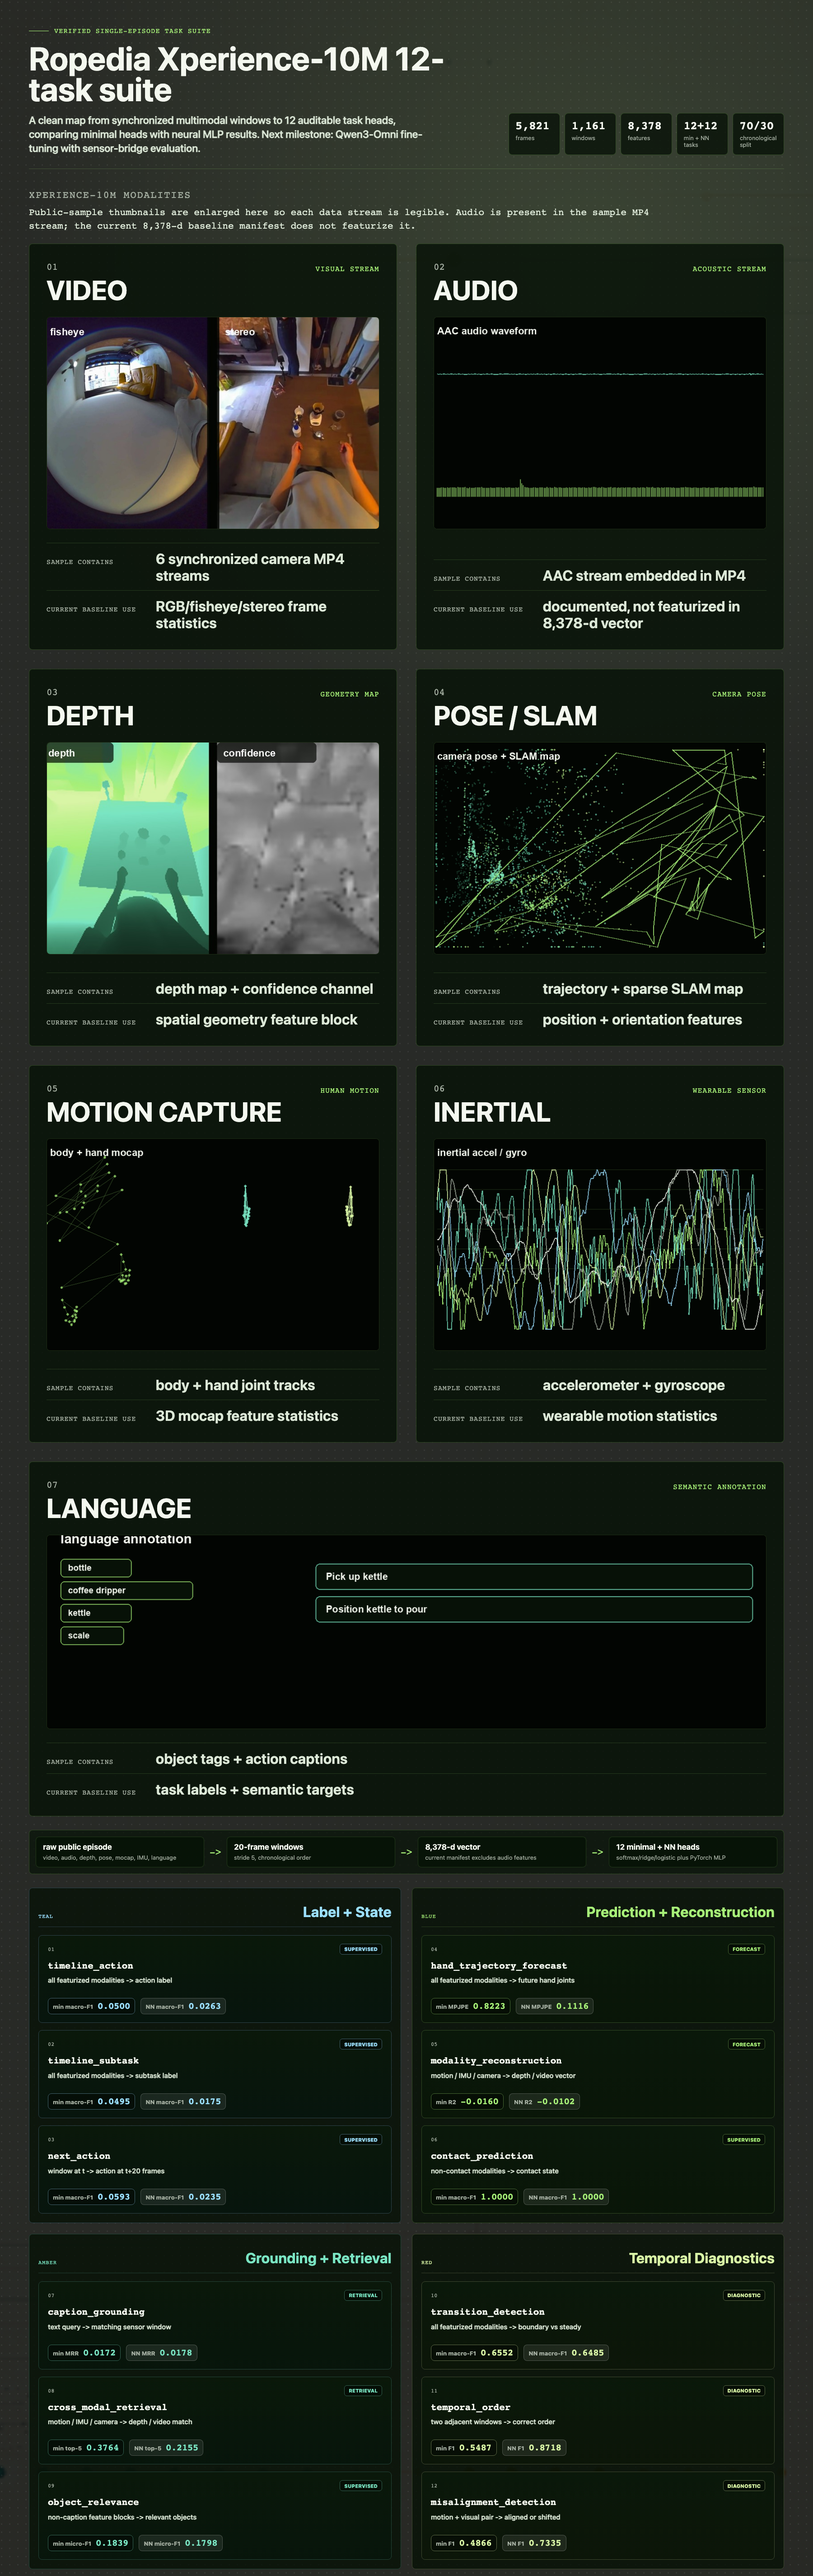
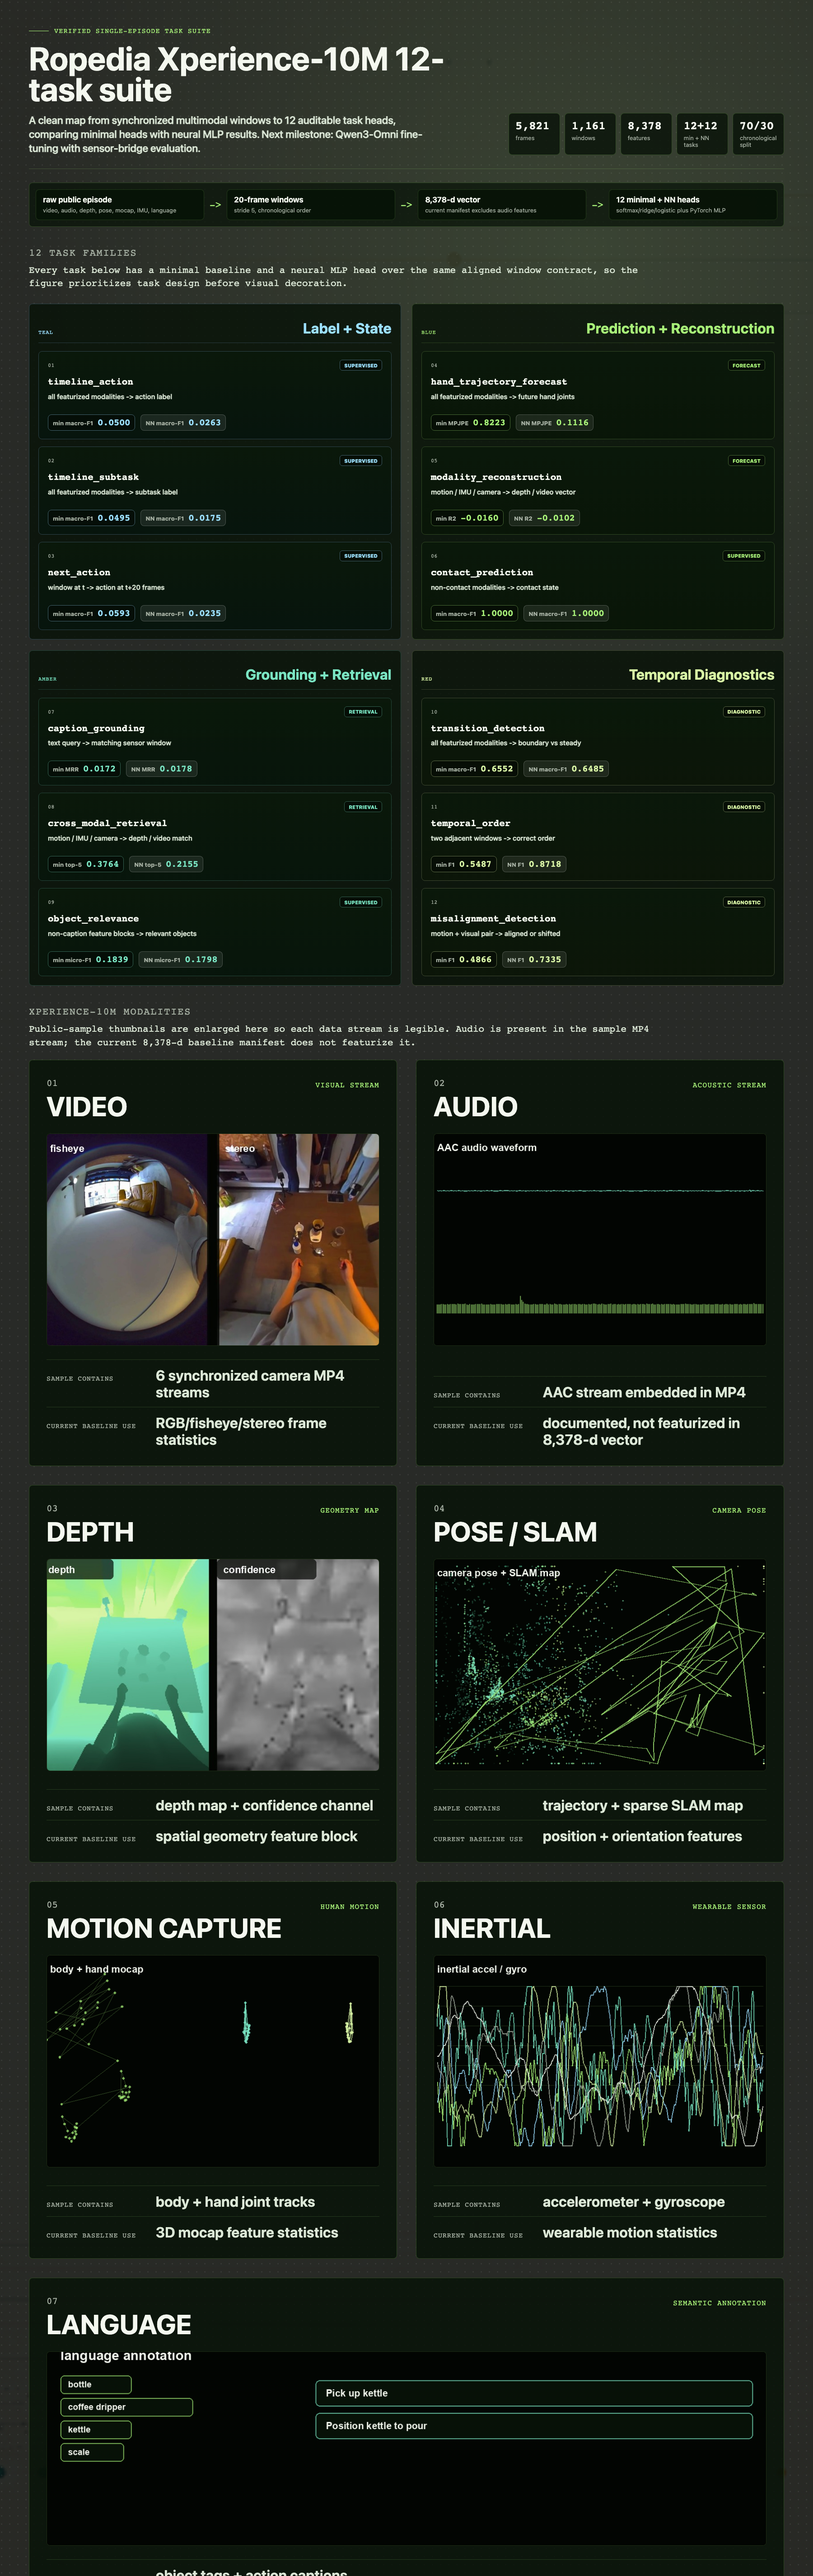
Prioritize task suite figure

diff --git a/docs/index.html b/docs/index.html
@@ -13,11 +13,11 @@
   <meta property="og:description" content="One public embodied-AI episode, converted into reproducible multimodal tasks, minimal baselines, neural MLP baselines, metrics, and diagrams.">
   <meta property="og:type" content="website">
   <meta property="og:url" content="https://chaoyue0307.github.io/ropedia-xperience-10m-task-suite/">
-  <meta property="og:image" content="https://chaoyue0307.github.io/ropedia-xperience-10m-task-suite/assets/task_suite_infographic.png?v=xperience10m-modalities-v9-large-atlas">
+  <meta property="og:image" content="https://chaoyue0307.github.io/ropedia-xperience-10m-task-suite/assets/task_suite_infographic.png?v=xperience10m-taskfirst-v10">
   <meta name="twitter:card" content="summary_large_image">
   <meta name="twitter:title" content="Ropedia Xperience-10M Task Suite">
   <meta name="twitter:description" content="Audit-first Xperience-10M multimodal task suite with minimal and neural baselines.">
-  <meta name="twitter:image" content="https://chaoyue0307.github.io/ropedia-xperience-10m-task-suite/assets/task_suite_infographic.png?v=xperience10m-modalities-v9-large-atlas">
+  <meta name="twitter:image" content="https://chaoyue0307.github.io/ropedia-xperience-10m-task-suite/assets/task_suite_infographic.png?v=xperience10m-taskfirst-v10">
   <script type="application/ld+json">
     {
       "@context": "https://schema.org",
@@ -342,8 +342,10 @@
       margin-top: 30px;
     }
     .figure-pan {
-      overflow: visible;
+      overflow-x: auto;
+      overflow-y: hidden;
       border-radius: var(--radius);
+      padding-bottom: 4px;
     }
     .figure-pan .task-suite-image {
       margin-bottom: 0;
@@ -963,9 +965,9 @@
         padding-inline: 0;
       }
       .figure-pan .task-suite-image {
-        width: 100%;
-        min-width: 0;
-        max-width: 100%;
+        width: 980px;
+        min-width: 980px;
+        max-width: none;
       }
     }
     @media (prefers-reduced-motion: reduce) {
@@ -1186,7 +1188,10 @@
       <div class="wrap">
         <div class="section-head">
           <h2>Ropedia Xperience-10M 12-task suite, first.</h2>
-          <p>Start with the large native modality atlas, then read the full 12-task map below it. Audio is present in the sample MP4 stream, but the current 8,378-d baseline manifest does not featurize it.</p>
+          <p>Start with the full 12-task map, then inspect the large native modality atlas below it. Audio is present in the sample MP4 stream, but the current 8,378-d baseline manifest does not featurize it.</p>
+        </div>
+        <div class="figure-pan" id="task-suite-map">
+          <img class="task-suite-image" src="assets/task_suite_infographic.png?v=xperience10m-taskfirst-v10" alt="ChatGPT-image-backed infographic showing all 12 Ropedia Xperience-10M tasks with enlarged modality cards">
         </div>
         <div class="modality-atlas-panel" id="modality-atlas" aria-labelledby="modality-atlas-title">
           <div class="atlas-head">
@@ -1234,9 +1239,6 @@
             </article>
           </div>
           <p class="atlas-note">The atlas redistributes only small derived thumbnails and metadata. Raw MP4, HDF5, and RRD files remain excluded from this repo and the Hugging Face mirrors.</p>
-        </div>
-        <div class="figure-pan">
-          <img class="task-suite-image" src="assets/task_suite_infographic.png?v=xperience10m-modalities-v9-large-atlas" alt="ChatGPT-image-backed infographic showing all 12 Ropedia Xperience-10M tasks with enlarged modality cards">
         </div>
       </div>
     </section>

diff --git a/scripts/validate_website_integrity.py b/scripts/validate_website_integrity.py
@@ -222,12 +222,49 @@ def validate(docs_root: Path, site_base: str) -> dict:
     ]
     duplicate_id_records = [item for item in duplicate_id_records if item["duplicates"]]
 
+    semantic_checks = []
+    semantic_layout_failures = []
+    index_path = docs_root / "index.html"
+    index_text = index_path.read_text(encoding="utf-8", errors="ignore") if index_path.exists() else ""
+    suite_start = index_text.find('<section id="suite">')
+    suite_end = index_text.find('<section id="pipeline">')
+    suite_text = index_text[suite_start:suite_end] if suite_start >= 0 and suite_end > suite_start else ""
+    semantic_rules = [
+        (
+            "suite_task_map_precedes_modality_atlas",
+            '<div class="figure-pan" id="task-suite-map">',
+            '<div class="modality-atlas-panel"',
+            "The Suite anchor should show the full 12-task map before the modality atlas.",
+        ),
+        (
+            "suite_modality_atlas_contains_seven_cards",
+            'class="atlas-card',
+            None,
+            "The modality atlas should expose seven sample modalities.",
+        ),
+    ]
+    for name, marker, after_marker, reason in semantic_rules:
+        if name == "suite_modality_atlas_contains_seven_cards":
+            card_count = len(re.findall(r'class="atlas-card(?:\s|")', suite_text))
+            passed = card_count == 7
+            detail = {"card_count": card_count}
+        else:
+            marker_pos = suite_text.find(marker)
+            after_pos = suite_text.find(after_marker or "")
+            passed = marker_pos >= 0 and after_pos >= 0 and marker_pos < after_pos
+            detail = {"first_marker_index": marker_pos, "second_marker_index": after_pos}
+        check = {"name": name, "status": "pass" if passed else "fail", "reason": reason, **detail}
+        semantic_checks.append(check)
+        if not passed:
+            semantic_layout_failures.append(check)
+
     failures = {
         "missing_targets": missing_targets,
         "missing_anchors": missing_anchors,
         "duplicate_ids": duplicate_id_records,
         "invalid_json": invalid_json,
         "invalid_images": invalid_images,
+        "semantic_layout": semantic_layout_failures,
     }
     failure_count = sum(len(items) for items in failures.values())
 
@@ -245,6 +282,7 @@ def validate(docs_root: Path, site_base: str) -> dict:
             "failure_count": failure_count,
         },
         "failures": failures,
+        "semantic_checks": semantic_checks,
         "html_pages": [
             {
                 "path": relative(path, docs_root),

diff --git a/scripts/render_task_suite_infographic.py b/scripts/render_task_suite_infographic.py
@@ -1019,12 +1019,6 @@ def build_html(summary: dict, base_image: Path | None, sample_dir: Path | None) 
       <div class="stats">{stats_html}</div>
     </header>
 
-    <div class="section-label">
-      <span>Xperience-10M modalities</span>
-      <span>Public-sample thumbnails are enlarged here so each data stream is legible. Audio is present in the sample MP4 stream; the current 8,378-d baseline manifest does not featurize it.</span>
-    </div>
-    <section class="modalities">{modalities_html}</section>
-
     <section class="shared-band" aria-label="shared processing contract">
       <div class="step"><strong>raw public episode</strong><span>video, audio, depth, pose, mocap, IMU, language</span></div>
       <div class="arrow">-></div>
@@ -1035,7 +1029,17 @@ def build_html(summary: dict, base_image: Path | None, sample_dir: Path | None) 
       <div class="step"><strong>12 minimal + NN heads</strong><span>softmax/ridge/logistic plus PyTorch MLP</span></div>
     </section>
 
+    <div class="section-label">
+      <span>12 task families</span>
+      <span>Every task below has a minimal baseline and a neural MLP head over the same aligned window contract, so the figure prioritizes task design before visual decoration.</span>
+    </div>
     <section class="families">{''.join(families)}</section>
+
+    <div class="section-label">
+      <span>Xperience-10M modalities</span>
+      <span>Public-sample thumbnails are enlarged here so each data stream is legible. Audio is present in the sample MP4 stream; the current 8,378-d baseline manifest does not featurize it.</span>
+    </div>
+    <section class="modalities">{modalities_html}</section>
 
     <footer class="footer">
       <span>Single public sample episode: useful for pipeline validation and task design, not cross-episode generalization.</span>
